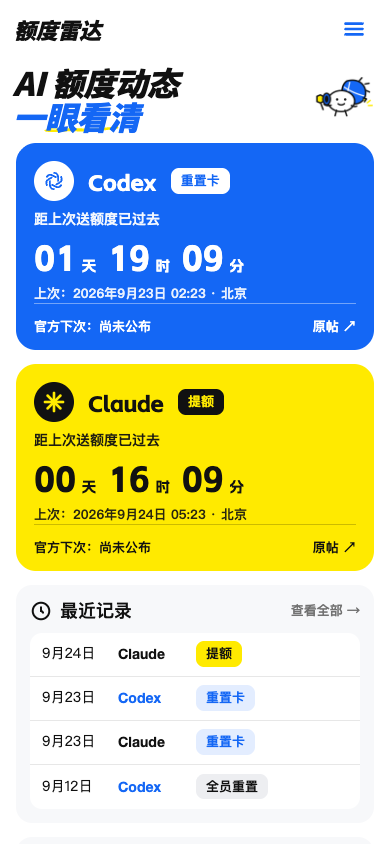
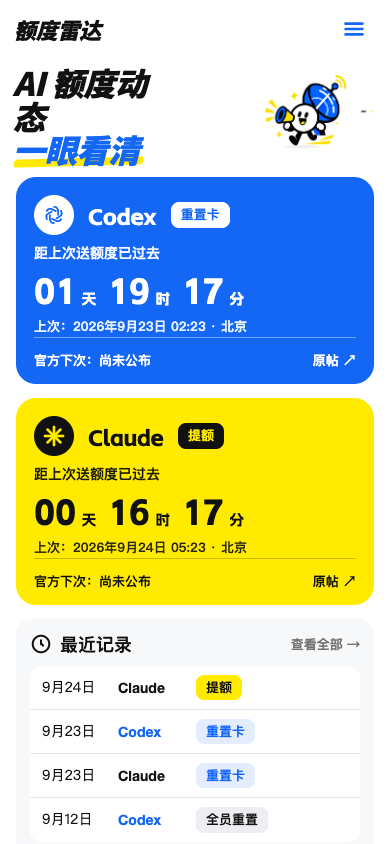
回退素材包改动；换用吉祥物概念01（中文桌面带牌子版，英文与手机纯小人版）

diff --git a/site/styles.css b/site/styles.css
@@ -19,18 +19,19 @@ nav.main a.on{background:var(--blue);color:var(--white)}
 .burger{display:none;width:40px;height:40px;border:0;background:transparent;cursor:pointer;color:var(--blue);padding:0}
 .burger svg{width:26px;height:26px}
 /* Hero */
-.hero{position:relative;display:grid;grid-template-columns:1fr 400px;align-items:center;gap:24px;min-height:250px;padding:8px 0 8px;overflow:visible}
+.hero{position:relative;display:grid;grid-template-columns:1fr 460px;align-items:center;gap:24px;min-height:290px;padding:8px 0 8px;overflow:visible}
 .hero h2{margin:0;font:900 var(--fs-hero)/1.02 "HeroCN",var(--cn);letter-spacing:-.01em}
 .hero h2 .b{color:var(--blue);position:relative;display:inline-block;padding:0 6px 0 0;z-index:0}
-.hero h2 .b::after{content:"";position:absolute;left:-2px;right:0;bottom:-.22em;height:.36em;background:url(/assets/hero-underline.svg) no-repeat center/100% 100%;z-index:-1}
+.hero h2 .b::after{content:"";position:absolute;left:-2px;right:6px;bottom:-4px;height:.28em;background:var(--yellow);z-index:-1;transform:skew(-14deg) rotate(-1.5deg);border-radius:3px}
 .hero .sub{margin:22px 0 0;color:var(--text);font-size:15px}
-.hero .art{position:relative;width:100%;max-width:400px;justify-self:end;padding-right:96px}
+.hero .art{position:relative;width:100%;max-width:460px;justify-self:end;padding-right:0}
+.hero .art.plain{max-width:340px;padding-right:110px}
 .hero .art img{width:100%;height:auto;display:block}
 .hero .sticker{position:absolute;right:-4px;bottom:70px;font:900 20px/1.25 "HeroCN",var(--cn);transform:rotate(-10deg);white-space:nowrap;text-align:center;background:linear-gradient(transparent 62%,var(--yellow) 62%);padding:0 4px}
 .hero .bolt{position:absolute;left:-40px;top:-8px;width:34px;height:60px;background:var(--panel);clip-path:polygon(60% 0,100% 0,45% 55%,70% 55%,0 100%,30% 45%,10% 45%);z-index:-1}
 /* 状态卡 */
 .quota-grid{display:grid;grid-template-columns:1fr 1fr;gap:20px;margin-top:16px}.quota-grid.one{grid-template-columns:minmax(0,560px)}
-.card{min-width:0;min-height:230px;border-radius:var(--r-card);padding:24px 26px 20px;display:flex;flex-direction:column}
+.card{min-width:0;min-height:205px;border-radius:var(--r-card);padding:24px 26px 20px;display:flex;flex-direction:column}
 .card.codex{background:var(--blue);color:var(--white)}.card.claude{background:var(--yellow);color:var(--black)}
 .card .head{display:flex;align-items:center;gap:14px}
 .card .logo{width:48px;height:48px;border-radius:50%;background:var(--white);color:var(--blue);display:grid;place-items:center;flex:none}
@@ -94,7 +95,7 @@ footer{margin:32px 0 28px;font-size:13px;color:var(--text-2);text-align:center;l
 footer a{color:var(--text-2)}
 /* 响应式 */
 @media(min-width:1280px){:root{--fs-hero:64px;--fs-num:72px}}
-@media(max-width:1279px){:root{--fs-hero:54px;--fs-num:56px}.hero{grid-template-columns:1fr 340px}}
+@media(max-width:1279px){:root{--fs-hero:54px;--fs-num:56px}.hero{grid-template-columns:1fr 400px}}
 @media(max-width:1023px){:root{--fs-hero:46px;--fs-num:48px;--fs-name:22px}.hero{min-height:240px;grid-template-columns:1fr 300px}.hero .art{padding-right:90px}}
 @media(max-width:768px){
   .page{width:calc(100% - 32px)}
@@ -103,11 +104,11 @@ footer a{color:var(--text-2)}
   nav.main.open{display:flex}nav.main a{height:44px}
   .burger{display:inline-grid;place-items:center}
   body{position:relative}
-  :root{--fs-hero:34px;--fs-num:42px;--fs-name:22px}
+  :root{--fs-hero:38px;--fs-num:42px;--fs-name:22px}
   .hero{grid-template-columns:1fr auto;gap:8px;min-height:0;padding:6px 0 4px}
   .hero h2{line-height:1.05}.hero h2 .b::after{height:.26em;bottom:-2px}
   .hero .sub{display:none}
-  .hero .art{width:170px;max-width:44%;padding-right:0;align-self:center}
+  .hero .art,.hero .art.plain{width:210px;max-width:52%;padding-right:0;align-self:center;margin-top:-6px}
   .hero .sticker{display:none}.hero .bolt{display:none}
   .quota-grid{grid-template-columns:1fr;gap:14px;margin-top:8px}
   .card{min-height:150px;padding:18px 18px 14px}
